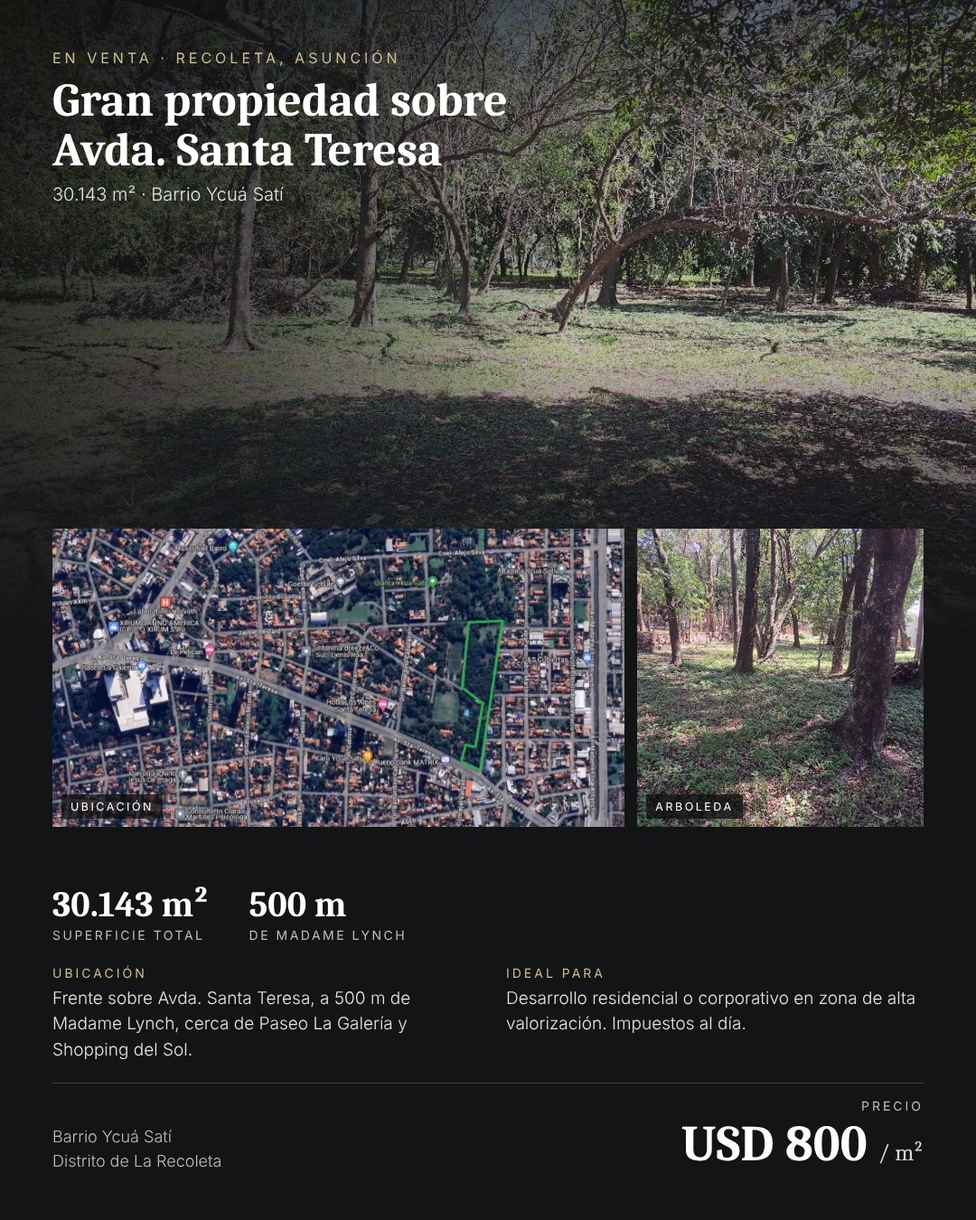
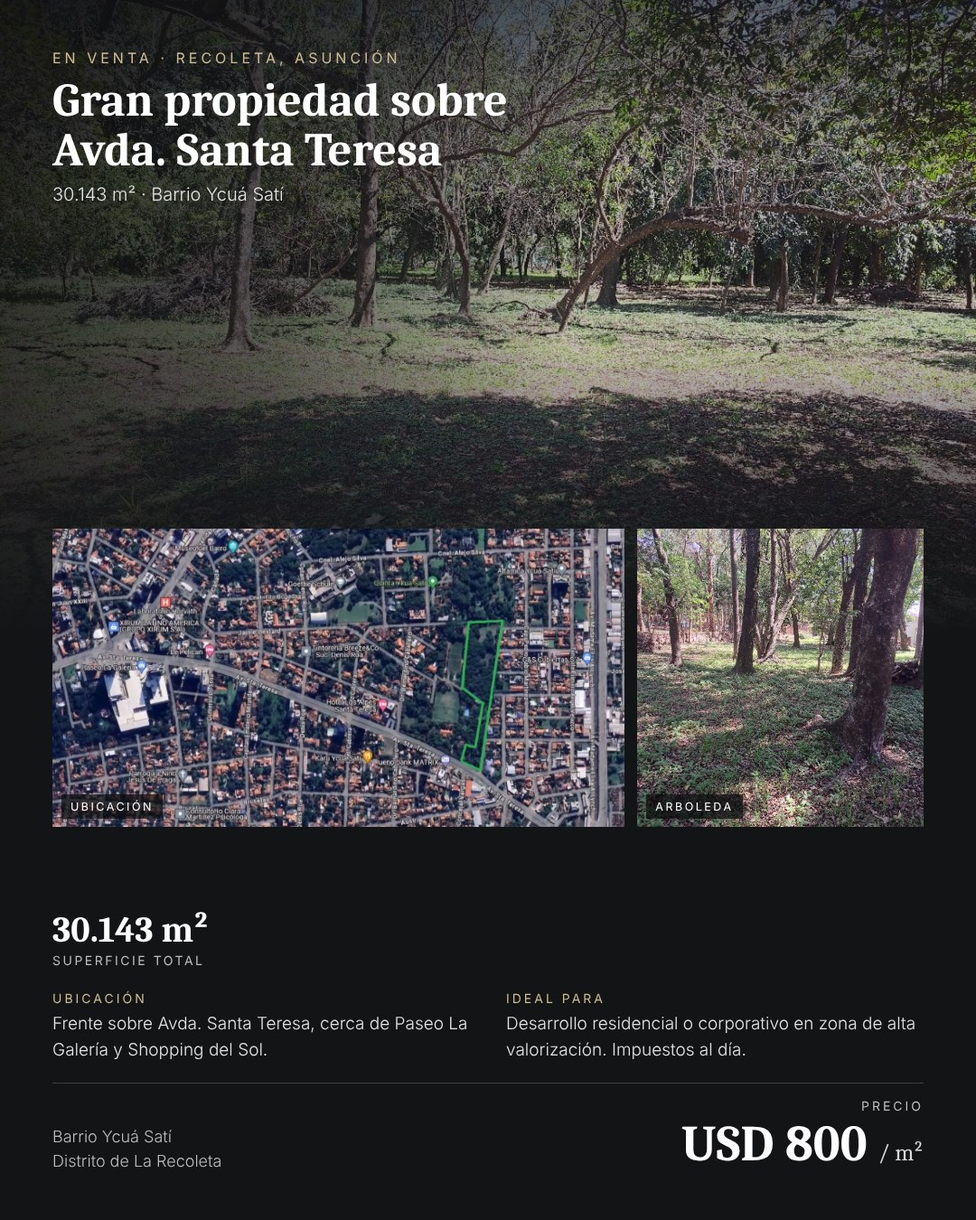
Flyers: Santa Teresa sin distancia a Madame Lynch
Claude-Session: https://claude.ai/code/session_013j8M8NR9Ee2vfMnY91pYWa

Changed region(s): [[0.0306, 0.7156, 0.4278, 0.8711], [0.5194, 0.8089, 0.9472, 0.8711], [0.2444, 0.7156, 0.3667, 0.7778]]

diff --git a/flyers/index.html b/flyers/index.html
@@ -53,7 +53,7 @@ dialog .dacts{display:flex;gap:8px;justify-content:center;margin-top:10px}
 <dialog id="dlg"><img id="dimg" alt=""><div class="dacts"><a class="act main" id="ddl" download>Descargar</a><button class="act" id="dsh">Compartir</button><button class="act" id="dx">Cerrar</button></div></dialog>
 <div class="toast" id="toast"></div>
 <script>
-const D=[{"ref": "21", "slug": "21-alfar-ii", "city": "Asunción", "title": "Departamento en Alfar II", "price": "Gs. 500.000.000", "cap": "Departamento de 3 dormitorios en el Edificio Alfar II, en pleno centro de Asunción (Antequera entre Azara y Herrera).\n\n110,81 m², living comedor amplio y luminoso, cocina amoblada y 2 baños modernos. Expensa mensual de Gs. 500.000.\n\nIdeal para vivir cerca de todo o como inversión para alquiler.\n\n📍 Asunción\n💰 Gs. 500.000.000\n\nEscribime por privado para más información o para coordinar una visita.\n\n#BienesRaices #InmueblesParaguay #PropiedadesEnVenta #Paraguay #Asuncion #Inversion #JoseCastilloPy", "tipo": "Departamento"}, {"ref": "22", "slug": "22-garay-530", "city": "Asunción", "title": "Departamento en Garay 530", "price": "USD 125.000", "cap": "Departamento en el Edificio Garay 530, en Villa Morra: 5.º piso, 65 m².\n\nLiving, cocina comedor, 1 dormitorio con vestidor, baño, área de lavado, balcón y estacionamiento propio. El edificio tiene piscina, salón social, gimnasio y patio interno.\n\nUna muy buena opción para vivir o alquilar en la zona más buscada de Asunción.\n\n📍 Asunción\n💰 USD 125.000\n\nEscribime por privado para más información o para coordinar una visita.\n\n#BienesRaices #InmueblesParaguay #PropiedadesEnVenta #Paraguay #Asuncion #Inversion #JoseCastilloPy", "tipo": "Departamento"}, {"ref": "23", "slug": "23-la-mercedia", "city": "Asunción", "title": "Monoambiente en La Mercedia", "price": "USD 68.700", "cap": "Monoambiente en el Edificio La Mercedia, barrio Las Mercedes: 38,5 m² en el 3.er piso.\n\nCocina amoblada, placar, baño en suite, balcón y cochera para un vehículo. Amenities: piscina y quincho.\n\nIdeal como primera vivienda o como inversión para renta.\n\n📍 Asunción\n💰 USD 68.700\n\nEscribime por privado para más información o para coordinar una visita.\n\n#BienesRaices #InmueblesParaguay #PropiedadesEnVenta #Paraguay #Asuncion #Inversion #JoseCastilloPy", "tipo": "Departamento"}, {"ref": "41", "slug": "41-del-maestro", "city": "Asunción", "title": "Propiedad sobre Del Maestro", "price": "USD 300.000", "cap": "Propiedad sobre la calle Del Maestro casi Cap. Dimas Motta, a 150 m de la Avda. San Martín.\n\nTerreno de 455 m² (13 × 35 m) sobre asfalto, en una de las zonas de mayor valorización de Asunción, cerca del Shopping Mariscal y de Villa Morra.\n\nIdeal para vivienda, oficinas o desarrollo.\n\n📍 Asunción\n💰 USD 300.000\n\nEscribime por privado para más información o para coordinar una visita.\n\n#BienesRaices #InmueblesParaguay #PropiedadesEnVenta #Paraguay #Asuncion #Inversion #JoseCastilloPy", "tipo": "Casa"}, {"ref": "EMI", "slug": "eminent-505-alquiler", "city": "Asunción", "title": "Edificio Eminent – Unidad 505 (alquiler)", "price": "USD 1.700 / mes", "cap": "", "tipo": "Departamento"}, {"ref": "STE", "slug": "santa-teresa-30143m2", "city": "Asunción", "title": "Gran propiedad sobre Avda. Santa Teresa – 30.143 m²", "price": "USD 800 / m²", "cap": "🌳 GRAN PROPIEDAD EN VENTA SOBRE AVDA. SANTA TERESA – ASUNCIÓN\n\n📍 Barrio Ycuá Satí, distrito de La Recoleta\nhttps://maps.app.goo.gl/1xi2ftBj15X4DNSj8\n\nUna oportunidad única: más de 30.000 m² en una de las zonas residenciales de mayor valorización de Asunción.\n\n• Superficie total: 30.143 m²\n• Impuestos al día para la transferencia\n• Frente sobre Avda. Santa Teresa\n• Terreno arbolado, con salida también hacia el norte y el este\n\n📌 Entorno: a 500 m de Madame Lynch (viaducto de Santa Teresa). Cerca del Edificio Quantum, el Complejo Alta Vista, la casa matriz de ueno bank, el Royal Park, el Hotel Los Alpes y The Tower, y a minutos de Paseo La Galería y Shopping del Sol.\n\nIdeal para un desarrollo residencial en altura, un proyecto corporativo o de uso mixto.\n\n💰 Precio: USD 800 por m²\n\nEscribinos para más información o para coordinar una visita.", "tipo": "Terreno"}, {"ref": "VM", "slug": "villa-morra-residencia", "city": "Asunción", "title": "Exclusiva residencia en Villa Morra", "price": "USD 800.000", "cap": "Exclusiva Residencia en el Barrio Villa Morra\n📍 Dr. Francisco Morra 375, Asunción – A pasos de la calle Andrade\n\n• Superficie de terreno: 600 m²\n• Superficie construida: 500 m²\n• 5 dormitorios y 5 baños\n• Estacionamiento para 3 vehículos\n\nPlanta baja: sala y comedor social, baño social, habitación para huéspedes, estar/TV, comedor diario, amplia cocina equipada y espacioso quincho con parrilla.\nPlanta alta: 4 habitaciones en suite (cada una con baño privado) y hall central con excelente iluminación.\n\n💰 Inversión: USD 800.000\n📍 Ubicación: https://maps.app.goo.gl/deo3fkoyKepdBt6bA\n\nEscribinos para más información o para coordinar una visita.", "tipo": "Casa"}, {"ref": "01", "slug": "01-fdm-casa-amplia", "city": "Fernando de la Mora", "title": "Amplia casa en Zona Sur", "price": "Gs. 750.000.000", "cap": "Amplia casa en Fernando de la Mora, Zona Sur, a pasos de la Avda. 11 de Septiembre.\n\nTerreno de 360 m². Hall de acceso, amplio living comedor, cocina, 3 dormitorios, 2 baños, galería con quincho y área de servicio.\n\nEspacios amplios y funcionales en una zona residencial tranquila y bien conectada.\n\n📍 Fernando de la Mora\n💰 Gs. 750.000.000\n\nEscribime por privado para más información o para coordinar una visita.\n\n#BienesRaices #InmueblesParaguay #PropiedadesEnVenta #Paraguay #FernandoDeLaMora #Inversion #JoseCastilloPy", "tipo": "Casa"}, {"ref": "11", "slug": "11-duplex-fdm", "city": "Fernando de la Mora", "title": "Dúplex en Zona Sur", "price": "Gs. 430.000.000", "cap": "", "tipo": "Casa"}, {"ref": "38", "slug": "38-deposito-zavala-cue", "city": "Fernando de la Mora", "title": "Depósito tipo tinglado", "price": "Gs. 810.000.000", "cap": "Depósito tipo tinglado en Fernando de la Mora Sur, sobre la Avda. Zavala Cue.\n\nTerreno de 12 × 32 m (384 m²) con 360 m² construidos. Ideal para depósito, logística o local de negocio sobre avenida.\n\n📍 Fernando de la Mora\n💰 Gs. 810.000.000\n\nEscribime por privado para más información o para coordinar una visita.\n\n#BienesRaices #InmueblesParaguay #PropiedadesEnVenta #Paraguay #FernandoDeLaMora #Inversion #JoseCastilloPy", "tipo": "Comercial"}, {"ref": "05", "slug": "05-san-lorenzo-piscina", "city": "San Lorenzo", "title": "Casa con piscina", "price": "Gs. 680.000.000", "cap": "Casa con piscina en San Lorenzo.\n\nPlanta baja: hall de acceso, living comedor amplio, cocina equipada, oficina o estudio, dormitorio en suite, dormitorio de servicio, baño social, amplio quincho, patio y piscina. Estacionamiento para 4 vehículos.\nPlanta alta: 2 dormitorios y baño compartido.\n\nUnos 300 m² construidos para una familia que busca comodidad y espacio.\n\n📍 San Lorenzo\n💰 Gs. 680.000.000\n\nEscribime por privado para más información o para coordinar una visita.\n\n#BienesRaices #InmueblesParaguay #PropiedadesEnVenta #Paraguay #SanLorenzo #Inversion #JoseCastilloPy", "tipo": "Casa"}, {"ref": "28", "slug": "28-terreno-amurallado-sl", "city": "San Lorenzo", "title": "Terreno amurallado", "price": "Gs. 280.000.000", "cap": "Terreno amurallado en San Lorenzo, zona Avelino Martínez.\n\n12 × 30 m (360 m²), con título listo para transferir. Ideal para construir tu casa o como inversión.\n\n📍 San Lorenzo\n💰 Gs. 280.000.000\n\nEscribime por privado para más información o para coordinar una visita.\n\n#BienesRaices #InmueblesParaguay #PropiedadesEnVenta #Paraguay #SanLorenzo #Inversion #JoseCastilloPy", "tipo": "Terreno"}, {"ref": "02", "slug": "02-luque-marambure", "city": "Luque", "title": "Amplia casa en Maramburé", "price": "Gs. 410.000.000", "cap": "Amplia casa en Maramburé, Luque.\n\nTerreno de 12 × 30 m. Amplio living, comedor, cocina, 3 dormitorios (1 en suite), baño familiar y lavadero.\n\nZona residencial con acceso rápido al centro de Luque, al Palacio de Justicia y a la ruta a San Bernardino, cerca de supermercados, colegios y transporte.\n\n📍 Luque\n💰 Gs. 410.000.000\n\nEscribime por privado para más información o para coordinar una visita.\n\n#BienesRaices #InmueblesParaguay #PropiedadesEnVenta #Paraguay #Luque #Inversion #JoseCastilloPy", "tipo": "Casa"}, {"ref": "29", "slug": "29-ykua-karanday", "city": "Luque", "title": "Terreno estratégico", "price": "USD 350.000", "cap": "Terreno estratégico en Ykua Karanday, Luque (zona Oga Ciudad Jardín).\n\n5.300 m², unos 150 × 35 m, con amplio frente. Zona de crecimiento constante y alta demanda residencial.\n\nIdeal para condominio, dúplex, loteamiento, casa quinta o proyecto comercial. Una oportunidad para inversores y desarrolladores.\n\n📍 Luque\n💰 USD 350.000\n\nEscribime por privado para más información o para coordinar una visita.\n\n#BienesRaices #InmueblesParaguay #PropiedadesEnVenta #Paraguay #Luque #Inversion #JoseCastilloPy", "tipo": "Terreno"}, {"ref": "33", "slug": "33-costa-sosa", "city": "Luque", "title": "Terreno de 1.332 m²", "price": "Gs. 350.000.000", "cap": "Terreno de 1.332 m² en Costa Sosa, Luque.\n\n25 m de frente por 53,30 m de fondo, plano y listo para construir, con acceso por calle empedrada. Ideal para vivienda, casa quinta o inversión.\n\n📍 Luque\n💰 Gs. 350.000.000\n\nEscribime por privado para más información o para coordinar una visita.\n\n#BienesRaices #InmueblesParaguay #PropiedadesEnVenta #Paraguay #Luque #Inversion #JoseCastilloPy", "tipo": "Terreno"}, {"ref": "04", "slug": "04-lambare-puerto-pabla", "city": "Lambaré", "title": "Casa en Puerto Pabla", "price": "USD 310.000", "cap": "Casa en Lambaré, Barrio Puerto Pabla.\n\nTerreno de 608 m² y 290 m² construidos aprox. 3 dormitorios amplios, 2 baños, sala, cocina, galería y estacionamiento.\n\nPozo artesiano de 120 m con tanque de 10.000 L, energía trifásica, portón eléctrico y alarma. En una de las zonas más buscadas de Lambaré.\n\n📍 Lambaré\n💰 USD 310.000\n\nEscribime por privado para más información o para coordinar una visita.\n\n#BienesRaices #InmueblesParaguay #PropiedadesEnVenta #Paraguay #Lambare #Inversion #JoseCastilloPy", "tipo": "Casa"}, {"ref": "09", "slug": "09-chalet-nemby", "city": "Ñemby", "title": "Chalet en esquina", "price": "Gs. 380.000.000", "cap": "Chalet en esquina en Ñemby, Barrio Caaguazú.\n\nHall de acceso, sala, cocina comedor, 2 dormitorios, baño y lavadero, con acceso vehicular para 2 o 3 vehículos.\n\n📍 Ñemby\n💰 Gs. 380.000.000\n\nEscribime por privado para más información o para coordinar una visita.\n\n#BienesRaices #InmueblesParaguay #PropiedadesEnVenta #Paraguay #Nemby #Inversion #JoseCastilloPy", "tipo": "Casa"}, {"ref": "35", "slug": "35-acceso-sur-nemby", "city": "Ñemby", "title": "Terreno de 430 m²", "price": "Gs. 800.000.000", "cap": "Terreno de 430 m² en Ñemby, sobre la calle Juan Pablo II, a media cuadra de la Ruta PY01 (Acceso Sur).\n\n24 m de frente, en una zona rodeada de comercios y servicios. Ideal para locales comerciales, oficinas, vivienda o inversión (sujeto a habilitación municipal).\n\n📍 Ñemby\n💰 Gs. 800.000.000\n\nEscribime por privado para más información o para coordinar una visita.\n\n#BienesRaices #InmueblesParaguay #PropiedadesEnVenta #Paraguay #Nemby #Inversion #JoseCastilloPy", "tipo": "Terreno"}, {"ref": "35", "slug": "35-acceso-sur-v2", "city": "Ñemby", "title": "Terreno sobre zona Acceso Sur", "price": "Gs. 800.000.000", "cap": "", "ver": "Otra versión", "tipo": "Terreno"}, {"ref": "NEM-C", "slug": "nemby-caaguazu-casa", "city": "Ñemby", "title": "Casa con salón comercial – Barrio Caaguazú", "price": "Gs. 300.000.000", "cap": "", "tipo": "Casa"}, {"ref": "08", "slug": "08-chalet-villa-elisa", "city": "Villa Elisa", "title": "Chalet en Villa Elisa", "price": "Gs. 350.000.000", "cap": "Chalet en Villa Elisa, en zona estratégica con todo al alcance.\n\nLiving comedor, cocina amoblada, 2 dormitorios, baño, quincho y estacionamiento para 2 vehículos. Terreno de 100 m² con 70 m² construidos.\n\n📍 Villa Elisa\n💰 Gs. 350.000.000\n\nEscribime por privado para más información o para coordinar una visita.\n\n#BienesRaices #InmueblesParaguay #PropiedadesEnVenta #Paraguay #VillaElisa #Inversion #JoseCastilloPy", "tipo": "Casa"}, {"ref": "CAP-C", "slug": "capiata-casa", "city": "Capiatá", "title": "Casa con amplio patio", "price": "Gs. 270.000.000", "cap": "", "tipo": "Casa"}, {"ref": "CAP-T", "slug": "capiata-2-terrenos", "city": "Capiatá", "title": "Dos terrenos para invertir", "price": "Gs. 170.000.000", "cap": "Dos terrenos en venta en Capiatá. Ideal para construir, desarrollar un proyecto inmobiliario o asegurar tu patrimonio.\n\n📐 Medidas: 14 × 26 m cada terreno\n📏 Superficie total: 728 m²\n💰 Precio por terreno: Gs. 85.000.000\n🔥 Precio por ambos: Gs. 170.000.000\n\n📍 Ubicación: https://maps.app.goo.gl/vzsPGN1xWNtvSSfcA\n\nEscribime por privado para más información o para coordinar una visita.", "tipo": "Terreno"}, {"ref": "03", "slug": "03-itaugua-san-juan", "city": "Itauguá", "title": "Casa en Barrio San Juan", "price": "Gs. 270.000.000", "cap": "Casa en Itauguá, Barrio San Juan.\n\nTerreno de 12 × 30 m (360 m²) con unos 100 m² construidos: 2 habitaciones, sala de estar, cocina, baño, pequeño depósito y amplio patio delantero y trasero.\n\n📍 Itauguá\n💰 Gs. 270.000.000\n\nEscribime por privado para más información o para coordinar una visita.\n\n#BienesRaices #InmueblesParaguay #PropiedadesEnVenta #Paraguay #Itaugua #Inversion #JoseCastilloPy", "tipo": "Casa"}, {"ref": "ARE", "slug": "aregua-esquina", "city": "Areguá", "title": "Residencia de dos plantas en esquina", "price": "Gs. 550.000.000", "cap": "", "tipo": "Casa"}, {"ref": "32", "slug": "32-ypane-san-cayetano", "city": "Ypané", "title": "Terreno de 360 m²", "price": "Gs. 50.000.000", "cap": "Terreno de 360 m² (12 × 30 m) en Ypané, Barrio San Cayetano, fracción Acosta Ñu, camino a Villeta.\n\nLibre de construcciones, a pasos del Liceo Militar y a 1 km aprox. de la ruta. Documentación al día, listo para transferir. Precio negociable.\n\n📍 Ypané\n💰 Gs. 50.000.000\n\nEscribime por privado para más información o para coordinar una visita.\n\n#BienesRaices #InmueblesParaguay #PropiedadesEnVenta #Paraguay #Ypane #Inversion #JoseCastilloPy", "tipo": "Terreno"}, {"ref": "32", "slug": "32-ypane-v2", "city": "Ypané", "title": "Terreno en Ypané", "price": "Gs. 50.000.000", "cap": "", "ver": "Otra versión", "tipo": "Terreno"}, {"ref": "06", "slug": "06-villeta", "city": "Villeta", "title": "Viví e invertí", "price": "Gs. 450.000.000", "cap": "Casa en Villeta para vivir e invertir.\n\nTerreno de 736 m² (17 × 43,30 m) con 440 m² construidos aprox.: 3 habitaciones, 2 baños, salón comedor integrado, quincho con parrilla y estacionamiento para 4 vehículos, con acceso directo al transporte público.\n\nIncluye 2 salones comerciales con renta activa. Entrega del 50% y saldo con financiación propia.\n\n📍 Villeta\n💰 Gs. 450.000.000\n\nEscribime por privado para más información o para coordinar una visita.\n\n#BienesRaices #InmueblesParaguay #PropiedadesEnVenta #Paraguay #Villeta #Inversion #JoseCastilloPy", "tipo": "Casa"}, {"ref": "14", "slug": "14-surubii", "city": "Surubi'i", "title": "Propiedad exclusiva", "price": "USD 110 / m²", "cap": "Propiedad exclusiva en la Zona Alta de Surubi'i.\n\nSuperficie total de 21.806 m², a USD 110 por m² (unos USD 2.398.660 en total). Una oportunidad para desarrolladores e inversores.\n\n📍 Surubi'i\n💰 USD 110 / m² (Total aprox. USD 2.398.660)\n\nEscribime por privado para más información o para coordinar una visita.\n\n#BienesRaices #InmueblesParaguay #PropiedadesEnVenta #Paraguay #Surubii #Inversion #JoseCastilloPy", "tipo": "Casa"}, {"ref": "31", "slug": "31-san-antonio", "city": "San Antonio", "title": "Terreno de 28.893 m²", "price": "USD 200.000", "cap": "Terreno de 28.893 m² en San Antonio, Barrio San Francisco, en el corredor industrial del sur del Área Metropolitana.\n\nA 100 m del asfalto, con 2 accesos adicionales y conexión rápida con la Ruta PY01 (Acceso Sur) y los puertos sobre el río Paraguay.\n\nIdeal para loteamiento o barrio cerrado, centro logístico, naves industriales o desarrollo de uso mixto.\n\n📍 San Antonio\n💰 USD 200.000\n\nEscribime por privado para más información o para coordinar una visita.\n\n#BienesRaices #InmueblesParaguay #PropiedadesEnVenta #Paraguay #SanAntonio #Inversion #JoseCastilloPy", "tipo": "Terreno"}, {"ref": "12", "slug": "12-puerta-del-lago", "city": "San Bernardino", "title": "Casa de verano en Puerta del Lago", "price": "USD 270.000", "cap": "Casa de verano en Puerta del Lago, San Bernardino.\n\n890,86 m². Galería amplia y galería rústica de kapi'i, living, comedor y cocina equipados, 5 dormitorios con placares y master suite con hidromasaje, todo climatizado. Piscina con media sombra, quincho con parrilla, dormitorio independiente y pergolados.\n\nSe entrega con mobiliario y equipamiento: TV, sonido, equipos de frío, mobiliario exterior, cuadriciclo, UTV y mesa de pool.\n\n📍 San Bernardino\n💰 USD 270.000\n\nEscribime por privado para más información o para coordinar una visita.\n\n#BienesRaices #InmueblesParaguay #PropiedadesEnVenta #Paraguay #SanBernardino #Inversion #JoseCastilloPy", "tipo": "Casa"}, {"ref": "16", "slug": "16-sanber-moderna", "city": "San Bernardino", "title": "Moderna residencia", "price": "USD 290.000", "cap": "Moderna residencia en San Bernardino, con apenas un año de construcción.\n\nTerreno de 364 m² y 188 m² construidos. 2 habitaciones en suite, salón multifuncional en planta alta con baño privado, depósito, estacionamiento y piscina con iluminación.\n\n📍 San Bernardino\n💰 USD 290.000\n\nEscribime por privado para más información o para coordinar una visita.\n\n#BienesRaices #InmueblesParaguay #PropiedadesEnVenta #Paraguay #SanBernardino #Inversion #JoseCastilloPy", "tipo": "Casa"}, {"ref": "18", "slug": "18-sanber-premium", "city": "San Bernardino", "title": "Residencia premium", "price": "USD 450.000", "cap": "Residencia premium en San Bernardino.\n\nTerreno de 26 × 28 m (728 m²) con 595 m² construidos. Planta alta: 3 dormitorios en suite y estar íntimo. Planta baja: living comedor amplio, cocina equipada con desayunador, dormitorio en suite, lavadero con sauna y baño social.\n\nPiscina de 65 m² con hidromasaje, estacionamiento techado, salón climatizado para eventos con kitchenette, generador propio y circuito cerrado.\n\n📍 San Bernardino\n💰 USD 450.000\n\nEscribime por privado para más información o para coordinar una visita.\n\n#BienesRaices #InmueblesParaguay #PropiedadesEnVenta #Paraguay #SanBernardino #Inversion #JoseCastilloPy", "tipo": "Casa"}, {"ref": "24", "slug": "24-sanber-2-terrenos", "city": "San Bernardino", "title": "2 terrenos juntos", "price": "USD 110.000", "cap": "Dos terrenos juntos en San Bernardino, Barrio Cristóbal Colón: unos 840 m² (28 × 29 m aprox.).\n\nA 200 m de la Avda. Guillermo Naumann, en zona residencial. Ideal para vivienda permanente, casa de verano o desarrollo inmobiliario.\n\n📍 San Bernardino\n💰 USD 110.000\n\nEscribime por privado para más información o para coordinar una visita.\n\n#BienesRaices #InmueblesParaguay #PropiedadesEnVenta #Paraguay #SanBernardino #Inversion #JoseCastilloPy", "tipo": "Terreno"}, {"ref": "ALT", "slug": "altos-portal", "city": "Altos", "title": "El Portal de Altos", "price": "Gs. 120.000.000", "cap": "", "tipo": "Casa"}, {"ref": "ALT", "slug": "altos-portal-v2", "city": "Altos", "title": "El Portal de Altos", "price": "Gs. 120.000.000", "cap": "", "ver": "Otra versión", "tipo": "Casa"}, {"ref": "55", "slug": "55-ybycui", "city": "Ybycuí", "title": "Propiedad rural con casa", "price": "USD 350.000", "cap": "Propiedad rural con casa en Ybycuí, Compañía Karaimi, detrás del Parque Nacional Ybycuí y a 135 km de Asunción.\n\n40 ha y 614 m² con escritura y mensura judicial. Casa principal de dos plantas con unos 765 m² cubiertos, 5 dormitorios, gran salón con galería y terraza con vista al arroyo y la serranía.\n\nEnergía ANDE con transformador propio y agua de naciente. A 15 minutos del Salto Cristal.\n\n📍 Ybycuí\n💰 USD 350.000\n\nEscribime por privado para más información o para coordinar una visita.\n\n#BienesRaices #InmueblesParaguay #PropiedadesEnVenta #Paraguay #Ybycui #Inversion #JoseCastilloPy", "tipo": "Campo"}];
+const D=[{"ref": "21", "slug": "21-alfar-ii", "city": "Asunción", "title": "Departamento en Alfar II", "price": "Gs. 500.000.000", "cap": "Departamento de 3 dormitorios en el Edificio Alfar II, en pleno centro de Asunción (Antequera entre Azara y Herrera).\n\n110,81 m², living comedor amplio y luminoso, cocina amoblada y 2 baños modernos. Expensa mensual de Gs. 500.000.\n\nIdeal para vivir cerca de todo o como inversión para alquiler.\n\n📍 Asunción\n💰 Gs. 500.000.000\n\nEscribime por privado para más información o para coordinar una visita.\n\n#BienesRaices #InmueblesParaguay #PropiedadesEnVenta #Paraguay #Asuncion #Inversion #JoseCastilloPy", "tipo": "Departamento"}, {"ref": "22", "slug": "22-garay-530", "city": "Asunción", "title": "Departamento en Garay 530", "price": "USD 125.000", "cap": "Departamento en el Edificio Garay 530, en Villa Morra: 5.º piso, 65 m².\n\nLiving, cocina comedor, 1 dormitorio con vestidor, baño, área de lavado, balcón y estacionamiento propio. El edificio tiene piscina, salón social, gimnasio y patio interno.\n\nUna muy buena opción para vivir o alquilar en la zona más buscada de Asunción.\n\n📍 Asunción\n💰 USD 125.000\n\nEscribime por privado para más información o para coordinar una visita.\n\n#BienesRaices #InmueblesParaguay #PropiedadesEnVenta #Paraguay #Asuncion #Inversion #JoseCastilloPy", "tipo": "Departamento"}, {"ref": "23", "slug": "23-la-mercedia", "city": "Asunción", "title": "Monoambiente en La Mercedia", "price": "USD 68.700", "cap": "Monoambiente en el Edificio La Mercedia, barrio Las Mercedes: 38,5 m² en el 3.er piso.\n\nCocina amoblada, placar, baño en suite, balcón y cochera para un vehículo. Amenities: piscina y quincho.\n\nIdeal como primera vivienda o como inversión para renta.\n\n📍 Asunción\n💰 USD 68.700\n\nEscribime por privado para más información o para coordinar una visita.\n\n#BienesRaices #InmueblesParaguay #PropiedadesEnVenta #Paraguay #Asuncion #Inversion #JoseCastilloPy", "tipo": "Departamento"}, {"ref": "41", "slug": "41-del-maestro", "city": "Asunción", "title": "Propiedad sobre Del Maestro", "price": "USD 300.000", "cap": "Propiedad sobre la calle Del Maestro casi Cap. Dimas Motta, a 150 m de la Avda. San Martín.\n\nTerreno de 455 m² (13 × 35 m) sobre asfalto, en una de las zonas de mayor valorización de Asunción, cerca del Shopping Mariscal y de Villa Morra.\n\nIdeal para vivienda, oficinas o desarrollo.\n\n📍 Asunción\n💰 USD 300.000\n\nEscribime por privado para más información o para coordinar una visita.\n\n#BienesRaices #InmueblesParaguay #PropiedadesEnVenta #Paraguay #Asuncion #Inversion #JoseCastilloPy", "tipo": "Casa"}, {"ref": "EMI", "slug": "eminent-505-alquiler", "city": "Asunción", "title": "Edificio Eminent – Unidad 505 (alquiler)", "price": "USD 1.700 / mes", "cap": "", "tipo": "Departamento"}, {"ref": "STE", "slug": "santa-teresa-30143m2", "city": "Asunción", "title": "Gran propiedad sobre Avda. Santa Teresa – 30.143 m²", "price": "USD 800 / m²", "cap": "🌳 GRAN PROPIEDAD EN VENTA SOBRE AVDA. SANTA TERESA – ASUNCIÓN\n\n📍 Barrio Ycuá Satí, distrito de La Recoleta\nhttps://maps.app.goo.gl/1xi2ftBj15X4DNSj8\n\nUna oportunidad única: más de 30.000 m² en una de las zonas residenciales de mayor valorización de Asunción.\n\n• Superficie total: 30.143 m²\n• Impuestos al día para la transferencia\n• Frente sobre Avda. Santa Teresa\n• Terreno arbolado, con salida también hacia el norte y el este\n\n📌 Entorno: cerca del Edificio Quantum, el Complejo Alta Vista, la casa matriz de ueno bank, el Royal Park, el Hotel Los Alpes y The Tower, y a minutos de Paseo La Galería y Shopping del Sol.\n\nIdeal para un desarrollo residencial en altura, un proyecto corporativo o de uso mixto.\n\n💰 Precio: USD 800 por m²\n\nEscribinos para más información o para coordinar una visita.", "tipo": "Terreno"}, {"ref": "VM", "slug": "villa-morra-residencia", "city": "Asunción", "title": "Exclusiva residencia en Villa Morra", "price": "USD 800.000", "cap": "Exclusiva Residencia en el Barrio Villa Morra\n📍 Dr. Francisco Morra 375, Asunción – A pasos de la calle Andrade\n\n• Superficie de terreno: 600 m²\n• Superficie construida: 500 m²\n• 5 dormitorios y 5 baños\n• Estacionamiento para 3 vehículos\n\nPlanta baja: sala y comedor social, baño social, habitación para huéspedes, estar/TV, comedor diario, amplia cocina equipada y espacioso quincho con parrilla.\nPlanta alta: 4 habitaciones en suite (cada una con baño privado) y hall central con excelente iluminación.\n\n💰 Inversión: USD 800.000\n📍 Ubicación: https://maps.app.goo.gl/deo3fkoyKepdBt6bA\n\nEscribinos para más información o para coordinar una visita.", "tipo": "Casa"}, {"ref": "01", "slug": "01-fdm-casa-amplia", "city": "Fernando de la Mora", "title": "Amplia casa en Zona Sur", "price": "Gs. 750.000.000", "cap": "Amplia casa en Fernando de la Mora, Zona Sur, a pasos de la Avda. 11 de Septiembre.\n\nTerreno de 360 m². Hall de acceso, amplio living comedor, cocina, 3 dormitorios, 2 baños, galería con quincho y área de servicio.\n\nEspacios amplios y funcionales en una zona residencial tranquila y bien conectada.\n\n📍 Fernando de la Mora\n💰 Gs. 750.000.000\n\nEscribime por privado para más información o para coordinar una visita.\n\n#BienesRaices #InmueblesParaguay #PropiedadesEnVenta #Paraguay #FernandoDeLaMora #Inversion #JoseCastilloPy", "tipo": "Casa"}, {"ref": "11", "slug": "11-duplex-fdm", "city": "Fernando de la Mora", "title": "Dúplex en Zona Sur", "price": "Gs. 430.000.000", "cap": "", "tipo": "Casa"}, {"ref": "38", "slug": "38-deposito-zavala-cue", "city": "Fernando de la Mora", "title": "Depósito tipo tinglado", "price": "Gs. 810.000.000", "cap": "Depósito tipo tinglado en Fernando de la Mora Sur, sobre la Avda. Zavala Cue.\n\nTerreno de 12 × 32 m (384 m²) con 360 m² construidos. Ideal para depósito, logística o local de negocio sobre avenida.\n\n📍 Fernando de la Mora\n💰 Gs. 810.000.000\n\nEscribime por privado para más información o para coordinar una visita.\n\n#BienesRaices #InmueblesParaguay #PropiedadesEnVenta #Paraguay #FernandoDeLaMora #Inversion #JoseCastilloPy", "tipo": "Comercial"}, {"ref": "05", "slug": "05-san-lorenzo-piscina", "city": "San Lorenzo", "title": "Casa con piscina", "price": "Gs. 680.000.000", "cap": "Casa con piscina en San Lorenzo.\n\nPlanta baja: hall de acceso, living comedor amplio, cocina equipada, oficina o estudio, dormitorio en suite, dormitorio de servicio, baño social, amplio quincho, patio y piscina. Estacionamiento para 4 vehículos.\nPlanta alta: 2 dormitorios y baño compartido.\n\nUnos 300 m² construidos para una familia que busca comodidad y espacio.\n\n📍 San Lorenzo\n💰 Gs. 680.000.000\n\nEscribime por privado para más información o para coordinar una visita.\n\n#BienesRaices #InmueblesParaguay #PropiedadesEnVenta #Paraguay #SanLorenzo #Inversion #JoseCastilloPy", "tipo": "Casa"}, {"ref": "28", "slug": "28-terreno-amurallado-sl", "city": "San Lorenzo", "title": "Terreno amurallado", "price": "Gs. 280.000.000", "cap": "Terreno amurallado en San Lorenzo, zona Avelino Martínez.\n\n12 × 30 m (360 m²), con título listo para transferir. Ideal para construir tu casa o como inversión.\n\n📍 San Lorenzo\n💰 Gs. 280.000.000\n\nEscribime por privado para más información o para coordinar una visita.\n\n#BienesRaices #InmueblesParaguay #PropiedadesEnVenta #Paraguay #SanLorenzo #Inversion #JoseCastilloPy", "tipo": "Terreno"}, {"ref": "02", "slug": "02-luque-marambure", "city": "Luque", "title": "Amplia casa en Maramburé", "price": "Gs. 410.000.000", "cap": "Amplia casa en Maramburé, Luque.\n\nTerreno de 12 × 30 m. Amplio living, comedor, cocina, 3 dormitorios (1 en suite), baño familiar y lavadero.\n\nZona residencial con acceso rápido al centro de Luque, al Palacio de Justicia y a la ruta a San Bernardino, cerca de supermercados, colegios y transporte.\n\n📍 Luque\n💰 Gs. 410.000.000\n\nEscribime por privado para más información o para coordinar una visita.\n\n#BienesRaices #InmueblesParaguay #PropiedadesEnVenta #Paraguay #Luque #Inversion #JoseCastilloPy", "tipo": "Casa"}, {"ref": "29", "slug": "29-ykua-karanday", "city": "Luque", "title": "Terreno estratégico", "price": "USD 350.000", "cap": "Terreno estratégico en Ykua Karanday, Luque (zona Oga Ciudad Jardín).\n\n5.300 m², unos 150 × 35 m, con amplio frente. Zona de crecimiento constante y alta demanda residencial.\n\nIdeal para condominio, dúplex, loteamiento, casa quinta o proyecto comercial. Una oportunidad para inversores y desarrolladores.\n\n📍 Luque\n💰 USD 350.000\n\nEscribime por privado para más información o para coordinar una visita.\n\n#BienesRaices #InmueblesParaguay #PropiedadesEnVenta #Paraguay #Luque #Inversion #JoseCastilloPy", "tipo": "Terreno"}, {"ref": "33", "slug": "33-costa-sosa", "city": "Luque", "title": "Terreno de 1.332 m²", "price": "Gs. 350.000.000", "cap": "Terreno de 1.332 m² en Costa Sosa, Luque.\n\n25 m de frente por 53,30 m de fondo, plano y listo para construir, con acceso por calle empedrada. Ideal para vivienda, casa quinta o inversión.\n\n📍 Luque\n💰 Gs. 350.000.000\n\nEscribime por privado para más información o para coordinar una visita.\n\n#BienesRaices #InmueblesParaguay #PropiedadesEnVenta #Paraguay #Luque #Inversion #JoseCastilloPy", "tipo": "Terreno"}, {"ref": "04", "slug": "04-lambare-puerto-pabla", "city": "Lambaré", "title": "Casa en Puerto Pabla", "price": "USD 310.000", "cap": "Casa en Lambaré, Barrio Puerto Pabla.\n\nTerreno de 608 m² y 290 m² construidos aprox. 3 dormitorios amplios, 2 baños, sala, cocina, galería y estacionamiento.\n\nPozo artesiano de 120 m con tanque de 10.000 L, energía trifásica, portón eléctrico y alarma. En una de las zonas más buscadas de Lambaré.\n\n📍 Lambaré\n💰 USD 310.000\n\nEscribime por privado para más información o para coordinar una visita.\n\n#BienesRaices #InmueblesParaguay #PropiedadesEnVenta #Paraguay #Lambare #Inversion #JoseCastilloPy", "tipo": "Casa"}, {"ref": "09", "slug": "09-chalet-nemby", "city": "Ñemby", "title": "Chalet en esquina", "price": "Gs. 380.000.000", "cap": "Chalet en esquina en Ñemby, Barrio Caaguazú.\n\nHall de acceso, sala, cocina comedor, 2 dormitorios, baño y lavadero, con acceso vehicular para 2 o 3 vehículos.\n\n📍 Ñemby\n💰 Gs. 380.000.000\n\nEscribime por privado para más información o para coordinar una visita.\n\n#BienesRaices #InmueblesParaguay #PropiedadesEnVenta #Paraguay #Nemby #Inversion #JoseCastilloPy", "tipo": "Casa"}, {"ref": "35", "slug": "35-acceso-sur-nemby", "city": "Ñemby", "title": "Terreno de 430 m²", "price": "Gs. 800.000.000", "cap": "Terreno de 430 m² en Ñemby, sobre la calle Juan Pablo II, a media cuadra de la Ruta PY01 (Acceso Sur).\n\n24 m de frente, en una zona rodeada de comercios y servicios. Ideal para locales comerciales, oficinas, vivienda o inversión (sujeto a habilitación municipal).\n\n📍 Ñemby\n💰 Gs. 800.000.000\n\nEscribime por privado para más información o para coordinar una visita.\n\n#BienesRaices #InmueblesParaguay #PropiedadesEnVenta #Paraguay #Nemby #Inversion #JoseCastilloPy", "tipo": "Terreno"}, {"ref": "35", "slug": "35-acceso-sur-v2", "city": "Ñemby", "title": "Terreno sobre zona Acceso Sur", "price": "Gs. 800.000.000", "cap": "", "ver": "Otra versión", "tipo": "Terreno"}, {"ref": "NEM-C", "slug": "nemby-caaguazu-casa", "city": "Ñemby", "title": "Casa con salón comercial – Barrio Caaguazú", "price": "Gs. 300.000.000", "cap": "", "tipo": "Casa"}, {"ref": "08", "slug": "08-chalet-villa-elisa", "city": "Villa Elisa", "title": "Chalet en Villa Elisa", "price": "Gs. 350.000.000", "cap": "Chalet en Villa Elisa, en zona estratégica con todo al alcance.\n\nLiving comedor, cocina amoblada, 2 dormitorios, baño, quincho y estacionamiento para 2 vehículos. Terreno de 100 m² con 70 m² construidos.\n\n📍 Villa Elisa\n💰 Gs. 350.000.000\n\nEscribime por privado para más información o para coordinar una visita.\n\n#BienesRaices #InmueblesParaguay #PropiedadesEnVenta #Paraguay #VillaElisa #Inversion #JoseCastilloPy", "tipo": "Casa"}, {"ref": "CAP-C", "slug": "capiata-casa", "city": "Capiatá", "title": "Casa con amplio patio", "price": "Gs. 270.000.000", "cap": "", "tipo": "Casa"}, {"ref": "CAP-T", "slug": "capiata-2-terrenos", "city": "Capiatá", "title": "Dos terrenos para invertir", "price": "Gs. 170.000.000", "cap": "Dos terrenos en venta en Capiatá. Ideal para construir, desarrollar un proyecto inmobiliario o asegurar tu patrimonio.\n\n📐 Medidas: 14 × 26 m cada terreno\n📏 Superficie total: 728 m²\n💰 Precio por terreno: Gs. 85.000.000\n🔥 Precio por ambos: Gs. 170.000.000\n\n📍 Ubicación: https://maps.app.goo.gl/vzsPGN1xWNtvSSfcA\n\nEscribime por privado para más información o para coordinar una visita.", "tipo": "Terreno"}, {"ref": "03", "slug": "03-itaugua-san-juan", "city": "Itauguá", "title": "Casa en Barrio San Juan", "price": "Gs. 270.000.000", "cap": "Casa en Itauguá, Barrio San Juan.\n\nTerreno de 12 × 30 m (360 m²) con unos 100 m² construidos: 2 habitaciones, sala de estar, cocina, baño, pequeño depósito y amplio patio delantero y trasero.\n\n📍 Itauguá\n💰 Gs. 270.000.000\n\nEscribime por privado para más información o para coordinar una visita.\n\n#BienesRaices #InmueblesParaguay #PropiedadesEnVenta #Paraguay #Itaugua #Inversion #JoseCastilloPy", "tipo": "Casa"}, {"ref": "ARE", "slug": "aregua-esquina", "city": "Areguá", "title": "Residencia de dos plantas en esquina", "price": "Gs. 550.000.000", "cap": "", "tipo": "Casa"}, {"ref": "32", "slug": "32-ypane-san-cayetano", "city": "Ypané", "title": "Terreno de 360 m²", "price": "Gs. 50.000.000", "cap": "Terreno de 360 m² (12 × 30 m) en Ypané, Barrio San Cayetano, fracción Acosta Ñu, camino a Villeta.\n\nLibre de construcciones, a pasos del Liceo Militar y a 1 km aprox. de la ruta. Documentación al día, listo para transferir. Precio negociable.\n\n📍 Ypané\n💰 Gs. 50.000.000\n\nEscribime por privado para más información o para coordinar una visita.\n\n#BienesRaices #InmueblesParaguay #PropiedadesEnVenta #Paraguay #Ypane #Inversion #JoseCastilloPy", "tipo": "Terreno"}, {"ref": "32", "slug": "32-ypane-v2", "city": "Ypané", "title": "Terreno en Ypané", "price": "Gs. 50.000.000", "cap": "", "ver": "Otra versión", "tipo": "Terreno"}, {"ref": "06", "slug": "06-villeta", "city": "Villeta", "title": "Viví e invertí", "price": "Gs. 450.000.000", "cap": "Casa en Villeta para vivir e invertir.\n\nTerreno de 736 m² (17 × 43,30 m) con 440 m² construidos aprox.: 3 habitaciones, 2 baños, salón comedor integrado, quincho con parrilla y estacionamiento para 4 vehículos, con acceso directo al transporte público.\n\nIncluye 2 salones comerciales con renta activa. Entrega del 50% y saldo con financiación propia.\n\n📍 Villeta\n💰 Gs. 450.000.000\n\nEscribime por privado para más información o para coordinar una visita.\n\n#BienesRaices #InmueblesParaguay #PropiedadesEnVenta #Paraguay #Villeta #Inversion #JoseCastilloPy", "tipo": "Casa"}, {"ref": "14", "slug": "14-surubii", "city": "Surubi'i", "title": "Propiedad exclusiva", "price": "USD 110 / m²", "cap": "Propiedad exclusiva en la Zona Alta de Surubi'i.\n\nSuperficie total de 21.806 m², a USD 110 por m² (unos USD 2.398.660 en total). Una oportunidad para desarrolladores e inversores.\n\n📍 Surubi'i\n💰 USD 110 / m² (Total aprox. USD 2.398.660)\n\nEscribime por privado para más información o para coordinar una visita.\n\n#BienesRaices #InmueblesParaguay #PropiedadesEnVenta #Paraguay #Surubii #Inversion #JoseCastilloPy", "tipo": "Casa"}, {"ref": "31", "slug": "31-san-antonio", "city": "San Antonio", "title": "Terreno de 28.893 m²", "price": "USD 200.000", "cap": "Terreno de 28.893 m² en San Antonio, Barrio San Francisco, en el corredor industrial del sur del Área Metropolitana.\n\nA 100 m del asfalto, con 2 accesos adicionales y conexión rápida con la Ruta PY01 (Acceso Sur) y los puertos sobre el río Paraguay.\n\nIdeal para loteamiento o barrio cerrado, centro logístico, naves industriales o desarrollo de uso mixto.\n\n📍 San Antonio\n💰 USD 200.000\n\nEscribime por privado para más información o para coordinar una visita.\n\n#BienesRaices #InmueblesParaguay #PropiedadesEnVenta #Paraguay #SanAntonio #Inversion #JoseCastilloPy", "tipo": "Terreno"}, {"ref": "12", "slug": "12-puerta-del-lago", "city": "San Bernardino", "title": "Casa de verano en Puerta del Lago", "price": "USD 270.000", "cap": "Casa de verano en Puerta del Lago, San Bernardino.\n\n890,86 m². Galería amplia y galería rústica de kapi'i, living, comedor y cocina equipados, 5 dormitorios con placares y master suite con hidromasaje, todo climatizado. Piscina con media sombra, quincho con parrilla, dormitorio independiente y pergolados.\n\nSe entrega con mobiliario y equipamiento: TV, sonido, equipos de frío, mobiliario exterior, cuadriciclo, UTV y mesa de pool.\n\n📍 San Bernardino\n💰 USD 270.000\n\nEscribime por privado para más información o para coordinar una visita.\n\n#BienesRaices #InmueblesParaguay #PropiedadesEnVenta #Paraguay #SanBernardino #Inversion #JoseCastilloPy", "tipo": "Casa"}, {"ref": "16", "slug": "16-sanber-moderna", "city": "San Bernardino", "title": "Moderna residencia", "price": "USD 290.000", "cap": "Moderna residencia en San Bernardino, con apenas un año de construcción.\n\nTerreno de 364 m² y 188 m² construidos. 2 habitaciones en suite, salón multifuncional en planta alta con baño privado, depósito, estacionamiento y piscina con iluminación.\n\n📍 San Bernardino\n💰 USD 290.000\n\nEscribime por privado para más información o para coordinar una visita.\n\n#BienesRaices #InmueblesParaguay #PropiedadesEnVenta #Paraguay #SanBernardino #Inversion #JoseCastilloPy", "tipo": "Casa"}, {"ref": "18", "slug": "18-sanber-premium", "city": "San Bernardino", "title": "Residencia premium", "price": "USD 450.000", "cap": "Residencia premium en San Bernardino.\n\nTerreno de 26 × 28 m (728 m²) con 595 m² construidos. Planta alta: 3 dormitorios en suite y estar íntimo. Planta baja: living comedor amplio, cocina equipada con desayunador, dormitorio en suite, lavadero con sauna y baño social.\n\nPiscina de 65 m² con hidromasaje, estacionamiento techado, salón climatizado para eventos con kitchenette, generador propio y circuito cerrado.\n\n📍 San Bernardino\n💰 USD 450.000\n\nEscribime por privado para más información o para coordinar una visita.\n\n#BienesRaices #InmueblesParaguay #PropiedadesEnVenta #Paraguay #SanBernardino #Inversion #JoseCastilloPy", "tipo": "Casa"}, {"ref": "24", "slug": "24-sanber-2-terrenos", "city": "San Bernardino", "title": "2 terrenos juntos", "price": "USD 110.000", "cap": "Dos terrenos juntos en San Bernardino, Barrio Cristóbal Colón: unos 840 m² (28 × 29 m aprox.).\n\nA 200 m de la Avda. Guillermo Naumann, en zona residencial. Ideal para vivienda permanente, casa de verano o desarrollo inmobiliario.\n\n📍 San Bernardino\n💰 USD 110.000\n\nEscribime por privado para más información o para coordinar una visita.\n\n#BienesRaices #InmueblesParaguay #PropiedadesEnVenta #Paraguay #SanBernardino #Inversion #JoseCastilloPy", "tipo": "Terreno"}, {"ref": "ALT", "slug": "altos-portal", "city": "Altos", "title": "El Portal de Altos", "price": "Gs. 120.000.000", "cap": "", "tipo": "Casa"}, {"ref": "ALT", "slug": "altos-portal-v2", "city": "Altos", "title": "El Portal de Altos", "price": "Gs. 120.000.000", "cap": "", "ver": "Otra versión", "tipo": "Casa"}, {"ref": "55", "slug": "55-ybycui", "city": "Ybycuí", "title": "Propiedad rural con casa", "price": "USD 350.000", "cap": "Propiedad rural con casa en Ybycuí, Compañía Karaimi, detrás del Parque Nacional Ybycuí y a 135 km de Asunción.\n\n40 ha y 614 m² con escritura y mensura judicial. Casa principal de dos plantas con unos 765 m² cubiertos, 5 dormitorios, gran salón con galería y terraza con vista al arroyo y la serranía.\n\nEnergía ANDE con transformador propio y agua de naciente. A 15 minutos del Salto Cristal.\n\n📍 Ybycuí\n💰 USD 350.000\n\nEscribime por privado para más información o para coordinar una visita.\n\n#BienesRaices #InmueblesParaguay #PropiedadesEnVenta #Paraguay #Ybycui #Inversion #JoseCastilloPy", "tipo": "Campo"}];
 const $=s=>document.querySelector(s);let city='';
 const esc=s=>s.replace(/[&<>"]/g,c=>({'&':'&amp;','<':'&lt;','>':'&gt;','"':'&quot;'}[c]));
 const refTxt=r=>/^\d/.test(r)?'Ref. '+r:'Sin ref.';
